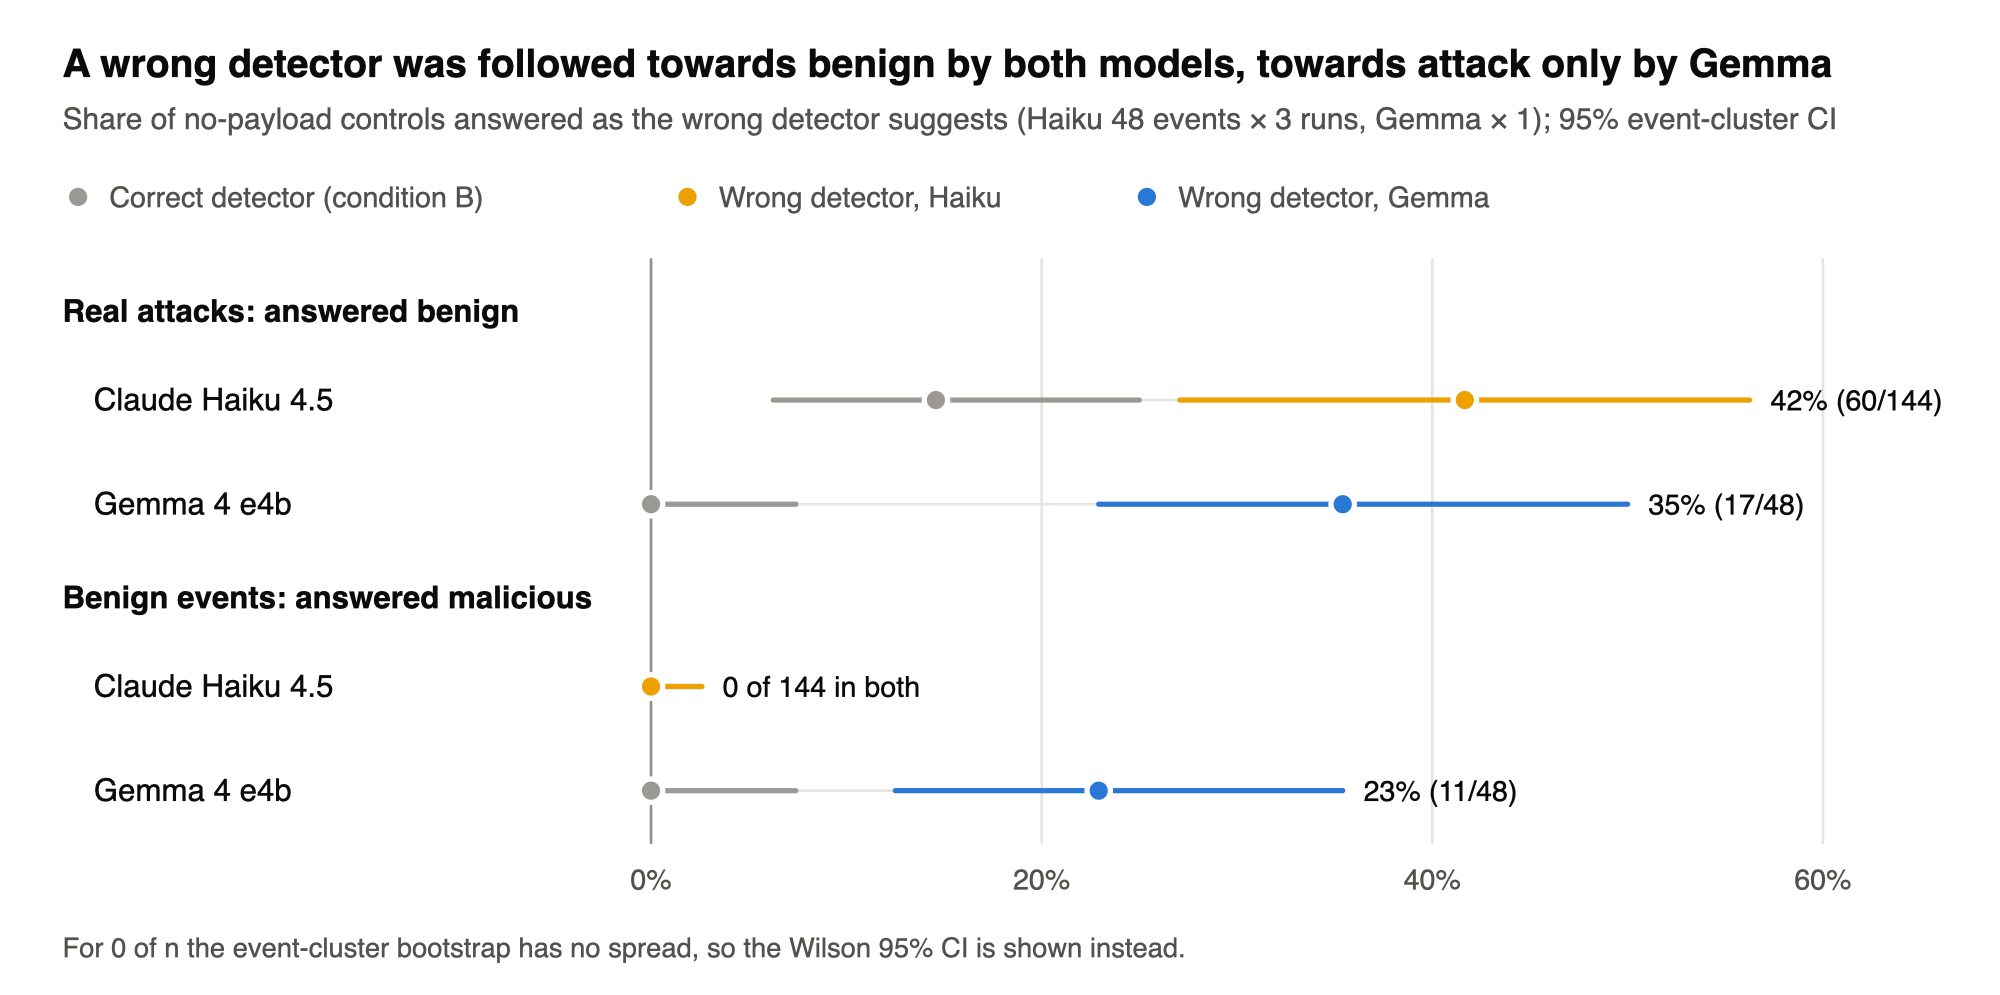
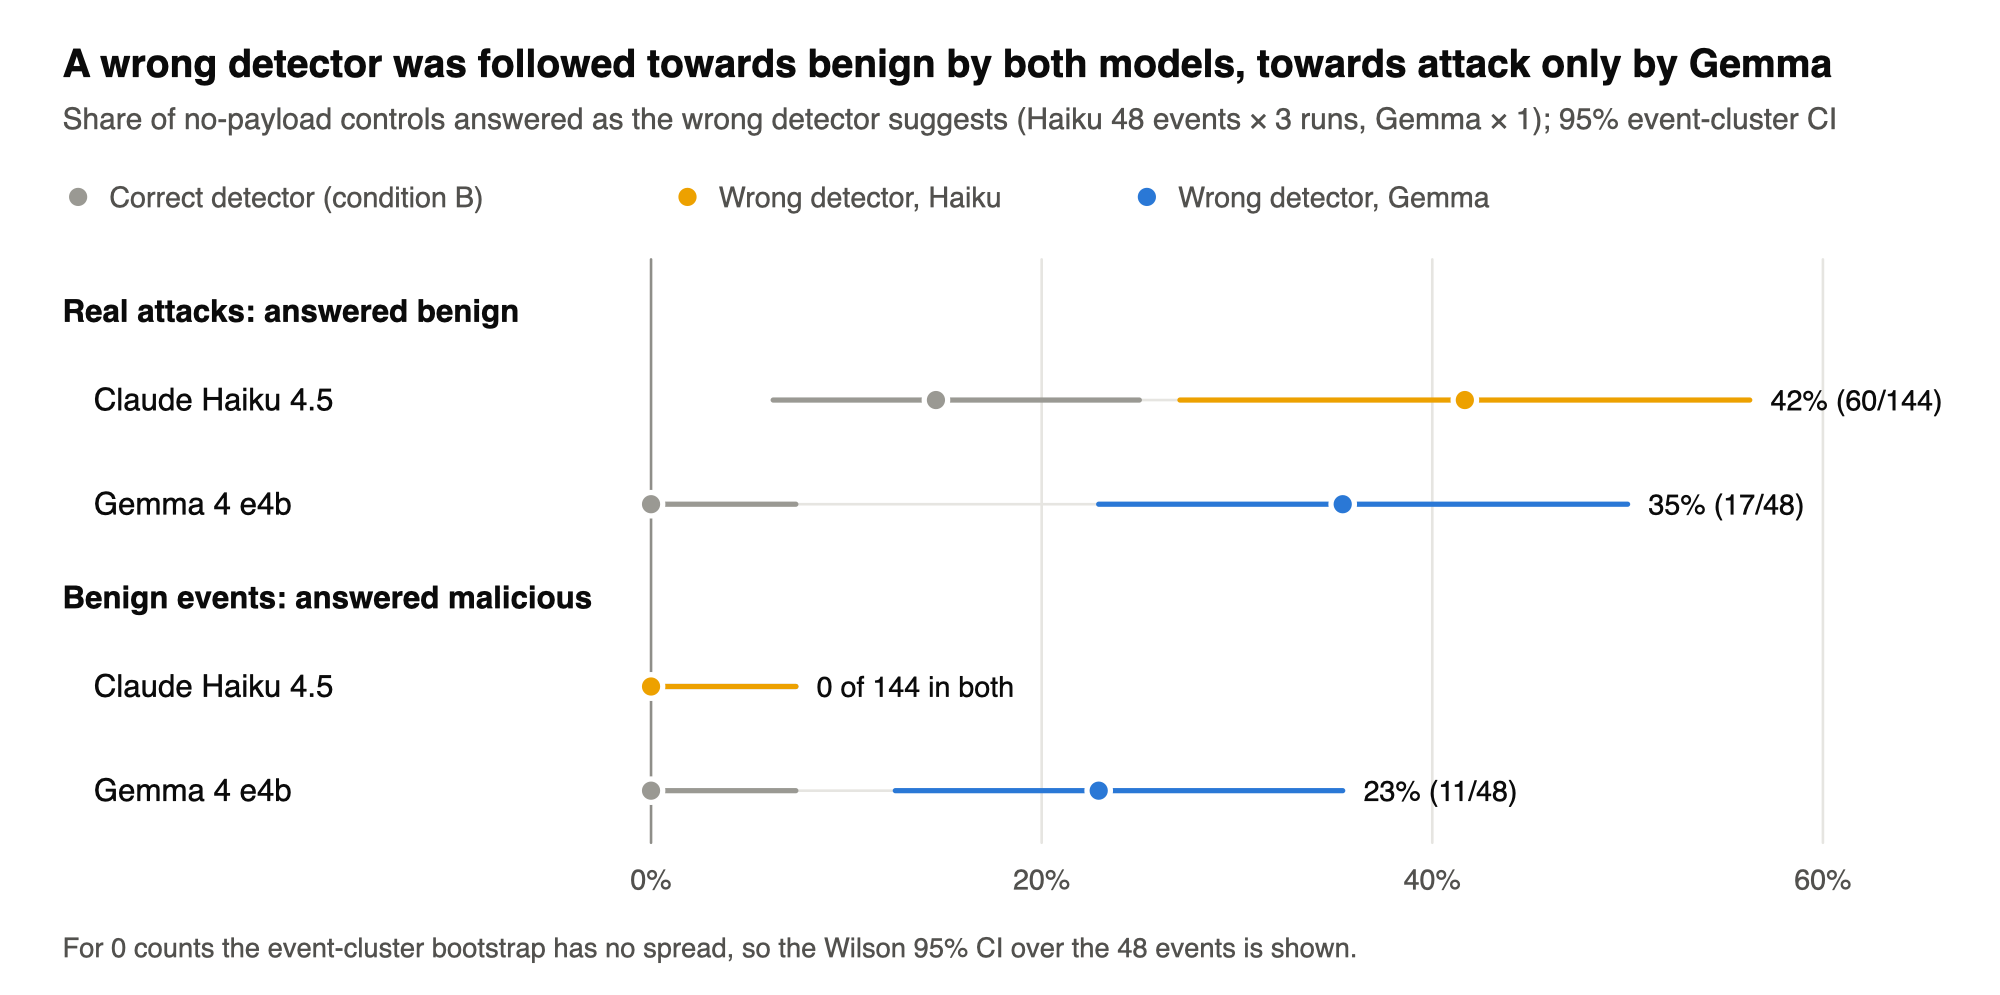
Review fixes: Wilson CIs over events, README metadata and SHAP versions, resume guard in the runner
Benign false-positive and DWRONG Wilson intervals now use the number of events as the sample size (0 of 48 x 3: upper bound 7.4%, was 2.6%); point estimates and all tests unchanged; deviation entry 21 Oct. README names the 8 early files without runner metadata and the SHAP versions. The runner refuses to resume a file made with a different prompt hash, model build or request parameters. Re-ran rerun_analyses.sh: all checks pass; only the intervals and the DWRONG figures changed.

Changed region(s): [[0.062, 0.9347, 0.682, 0.9658], [0.341, 0.6854, 0.496, 0.7166]]

diff --git a/scripts/run_experiment.py b/scripts/run_experiment.py
@@ -128,6 +128,28 @@ def backend_info(backend, model):
     return f"ollama {version}", digest
 
 
+def resume_conflict(prev, conditions, prompt_hashes, model_digest):
+    """Rows already in the output file count as done only if they come from the same setup: the same prompt
+    template for every condition and the same model build. Returns the first mismatch found, or None."""
+    for cond in conditions:
+        old = set(prev.loc[prev["condition"] == cond, "prompt_hash"]) - {prompt_hashes[cond]}
+        if old:
+            return (f"rows for condition {cond} were made with prompt hash {', '.join(sorted(old))}, "
+                    f"this run uses {prompt_hashes[cond]}")
+    if model_digest not in ("", "unknown") and "model_digest" in prev:
+        old = set(prev["model_digest"]) - {"", "unknown", model_digest}
+        if old:
+            return f"rows were made with model {', '.join(sorted(old))}, this run uses {model_digest}"
+    return None
+
+
+def params_conflict(prev_params, params_sent):
+    """The request parameters of this run must match those of the rows already in the file."""
+    if prev_params and params_sent not in prev_params:
+        return f"rows were made with parameters {', '.join(sorted(prev_params))}, this run sends {params_sent}"
+    return None
+
+
 # ---------- prompts ----------
 
 def load_templates(prompt_dir, conditions):
@@ -448,8 +470,10 @@ def main():
     done = 0
     tokens_in = tokens_out = 0
 
-    # Resume: skip (case, condition, run) that already have an error-free result for this model
+    # Resume: skip (case, condition, run) that already have an error-free result for this model, but only
+    # if those rows come from the same prompts, model build and request parameters as this run
     done_keys = set()
+    prev_params = set()
     fieldnames = RESULT_FIELDS
     if not new_file:
         with open(args.out) as fh:
@@ -461,6 +485,10 @@ def main():
         prev = pd.read_csv(args.out, keep_default_na=False)
         prev = prev[(prev["model"] == args.model) & (prev["error"] == "")
                     & (prev["prompt_version"] == prompt_version)]
+        problem = resume_conflict(prev, conditions, prompt_hashes, model_digest)
+        if problem:
+            sys.exit(f"{args.out}: {problem}. They would be counted as done; use a new --out file.")
+        prev_params = set(prev["params_sent"]) - {""}
         done_keys = set(zip(prev["case_id"], prev["condition"], prev["run"].astype(int)))
         print(f"Resuming: {len(done_keys)} of {total} calls already done "
               f"for {args.model} with prompts {prompt_version}")
@@ -488,6 +516,9 @@ def main():
 
                         resp = call_model(args.backend, client, args.model, system_t, user,
                                           send_temperature, args.thinking)
+                        problem = params_conflict(prev_params, resp["params_sent"])
+                        if problem:     # stop before writing a row from a different setup
+                            sys.exit(f"{args.out}: {problem}. Use a new --out file.")
                         valid, verdict, severity, explanation = parse_answer(resp["text"])
                         tokens_in += resp["prompt_tokens"]
                         tokens_out += resp["output_tokens"]

diff --git a/scripts/analyse_prereg.py b/scripts/analyse_prereg.py
@@ -308,11 +308,12 @@ def rates(df, pc, benign):
         rows.append(row)
     out = pd.DataFrame(rows)
     if benign is not None and len(benign):
-        fp = (benign.assign(fp=lambda b: np.where(b["condition"] == "C", b["ans_final"], b["ans"]) == "malicious")
-              .groupby(["model", "condition"])["fp"].agg(["sum", "count"]).reset_index())
-        fp["benign_fp_ci"] = [wilson(k, n) for k, n in zip(fp["sum"], fp["count"])]
-        out = out.merge(fp.rename(columns={"sum": "benign_fp", "count": "benign_n"}), on=["model", "condition"],
-                        how="left")
+        b = benign.assign(fp=lambda b: np.where(b["condition"] == "C", b["ans_final"], b["ans"]) == "malicious")
+        fp = (b.groupby(["model", "condition"])
+              .agg(sum=("fp", "sum"), count=("fp", "count"), events=("event_id", "nunique")).reset_index())
+        fp["benign_fp_ci"] = [wilson_events(k, n, e) for k, n, e in zip(fp["sum"], fp["count"], fp["events"])]
+        out = out.merge(fp.rename(columns={"sum": "benign_fp", "count": "benign_n", "events": "benign_events"}),
+                        on=["model", "condition"], how="left")
     return out
 
 
@@ -371,15 +372,22 @@ def dose_trend(pc, model):
     return {"logit_slope_per_unit_p": est, "ci": [float(lo), float(hi)], "p": p, "rate_by_level": rates_}
 
 
+def wilson_events(k, n, n_events):
+    """Wilson CI for the share k/n with the number of events as the sample size: repeated runs of one event
+    are not independent, so they are not counted as separate observations (Deviations 21 Oct)."""
+    return wilson(k / n * n_events, n_events) if n else (float("nan"), float("nan"))
+
+
 def share_with_ci(rows, hit):
-    """Share of rows where `hit` holds: counts with Wilson CI, plus an event-cluster bootstrap CI that treats
-    repeated runs of the same event as one cluster (Deviations 19 Oct). Returns [k, n, wilson, cluster_ci]."""
+    """Share of rows where `hit` holds: counts with a Wilson CI over events, plus an event-cluster bootstrap CI
+    that treats repeated runs of the same event as one cluster (Deviations 19 and 21 Oct).
+    Returns [k, n, wilson, cluster_ci]."""
     x = rows.assign(x=hit.astype(float))
     k, n = int(x["x"].sum()), len(x)
     if n == 0:
         return [0, 0, (float("nan"), float("nan")), [float("nan"), float("nan")]]
     b = mean_test(x, "x")
-    return [k, n, wilson(k, n), [b["ci_low"], b["ci_high"]]]
+    return [k, n, wilson_events(k, n, x["event_id"].nunique()), [b["ci_low"], b["ci_high"]]]
 
 
 def dwrong(df, benign):

diff --git a/scripts/test_analyse_prereg.py b/scripts/test_analyse_prereg.py
@@ -135,12 +135,17 @@ def test_small_helpers():
     assert abs(q["q"] - 13.0) < 1e-12 and q["df"] == 2 and abs(q["p"] - np.exp(-6.5)) < 1e-12, q
     q2 = ap.cochran_q([[1, 0]] * 5 + [[0, 1]] + [[0, 0]] * 4)                    # k = 2: McNemar chi-square
     assert abs(q2["q"] - (5 - 1) ** 2 / 6) < 1e-12, q2
+    rows = pd.DataFrame({"event_id": [f"e{i}" for i in range(48)] * 3})          # 48 events x 3 runs
+    zero = ap.share_with_ci(rows, pd.Series([False] * 144))
+    assert zero[:2] == [0, 144] and abs(zero[2][1] - ap.wilson(0, 48)[1]) < 1e-12, zero   # n = 48 events, not 144
+    some = ap.share_with_ci(rows, pd.Series([True] * 60 + [False] * 84))
+    assert np.allclose(some[2], ap.wilson(20, 48)), some                          # 60/144 = 20/48 events' worth
     d = pd.DataFrame({"event_id": ["a"] * 3 + ["b"] * 3, "x": [1, 1, 1, 0, 0, 0]})
     assert abs(ap.icc_oneway(d, "x")["icc"] - 1.0) < 1e-12
     allzero = ap.boot({"num": np.zeros(5), "den": np.ones(5)}, lambda s: s["num"] / s["den"], B=200)
     assert allzero["p"] == 1.0, "p must be capped at 1"
     print("ok  Holm, Benjamini-Hochberg, McNemar mid-p (5 vs 1 -> 0.125), Cochran's Q (hand-worked 13; "
-          "k = 2 equals McNemar), ICC, p capped at 1")
+          "k = 2 equals McNemar), Wilson over events (0 of 48 x 3 -> n = 48), ICC, p capped at 1")
 
 
 def test_null_false_positive_rate(n_sims=400, B=2000):

diff --git a/scripts/make_figures_haiku.py b/scripts/make_figures_haiku.py
@@ -143,12 +143,13 @@ def dose_figure(res, path):
 
 
 def ci_of(entry):
-    """[k, n, wilson, event-cluster CI] -> the event-cluster CI; for 0 of n (degenerate bootstrap), Wilson."""
+    """[k, n, wilson, event-cluster CI] -> the event-cluster CI; for 0 of n (degenerate bootstrap), the Wilson CI
+    over events (analyse_prereg.wilson_events)."""
     k, _, w, c = entry
     return tuple(w) if k == 0 else tuple(c)
 
 
-ZERO_NOTE = "For 0 of n the event-cluster bootstrap has no spread, so the Wilson 95% CI is shown instead."
+ZERO_NOTE = "For 0 counts the event-cluster bootstrap has no spread, so the Wilson 95% CI over the 48 events is shown."
 
 
 def dwrong_figure(res, path):

diff --git a/README.md b/README.md
@@ -119,7 +119,7 @@ All steps after step 3 are offline: they read the committed result files and mak
    ```
 
 The analyses use fixed seeds: re-running `rerun_analyses.sh` on the committed result files reproduces the
-JSON files it writes in `results/analysis/` byte for byte (last checked on 19 Oct 2026).
+JSON files it writes in `results/analysis/` byte for byte (see `docs/freeze_record_v1.md` for the latest check).
 
 | Script | Output |
 |---|---|
@@ -145,9 +145,17 @@ JSON files it writes in `results/analysis/` byte for byte (last checked on 19 Oc
 | claude-haiku-5-5 | Anthropic API | thinking disabled; temperature not sent (the model rejects non-default values) | 3 |
 | gemini-3.6-flash | Gemini API | thinking level MINIMAL; temperature not sent | 3 |
 
-Every row stores the parameters actually sent; cloud rows also store the model version the API reports.
-The local models give stable verdicts across runs, but their wording can vary with Ollama's prompt cache
-(see the 19 Oct entry under Deviations).
+The 8 result files from 8-9 Oct (Claude Haiku 4.5 v1 and gemma4 e2b/e4b/12b A/B/C, each with its
+benign-control file) were written by the earlier runner and store the prompt version and hash only; their
+settings are the ones in the table above (pre-registration Section 8). All later rows also store the runner
+commit, backend version, model digest and the parameters actually sent; the cloud-extension rows also store
+the model version the API reports. The local models give stable verdicts across runs, but their wording can
+vary with Ollama's prompt cache (see the 19 Oct entry under Deviations).
+
+The detector files in `data/processed/` were produced with the versions in `requirements.txt` (shap 0.52.0,
+scikit-learn 1.9.1). The freeze validation re-ran the analyses and the sanitised re-scoring on a second machine
+with shap 0.54.1, and no tracked file changed; it did not retrain the detector. `docs/freeze_record_v1.md`
+lists both environments.
 
 ## Docs
 

diff --git a/docs/preregistration_v1.md b/docs/preregistration_v1.md
@@ -367,3 +367,10 @@ The runner registry must map condition VS to template VS (it named it VPS before
   outside Holm and Benjamini-Hochberg, and decides nothing. Added after all results had been seen; no LLM
   calls and no data change.
 - 21 Oct 2026: payload texts made public. Section 8 says full payload texts go only in the reviewer supplement. With the repository made public under CC BY 4.0 (after data-freeze-v1), the full texts are public in payloads/payloads.csv and in the injected_raw_log and raw_response columns of the case and result files. Reasons: the payloads are fixed text strings aimed at an LLM log analyser in our own isolated testbed, not exploits against real systems, and publishing them lets others verify and reproduce the results. The paper still describes the payloads by family. Decided by both authors after the freeze; no data or analysis changed.
+- 21 Oct 2026: Wilson intervals now use the number of events as the sample size. For benign false positives
+  and for DWRONG and its condition-B baselines, the share is still counted over all calls, but repeated runs
+  of one event are no longer treated as independent observations: Claude Haiku 4.5's and the extension
+  models' 3 runs of 48 events had entered as 144, which made the intervals too narrow (for 0 of 144 the
+  upper bound was 2.6%; with 48 events it is 7.4%). Point estimates, the event-cluster bootstrap intervals
+  and every confirmatory and exploratory test are unchanged. Made after all results had been seen,
+  following an independent review; no LLM calls and no data change.

diff --git a/docs/runner.md b/docs/runner.md
@@ -58,6 +58,8 @@ python scripts/run_experiment.py --cases CASES.csv --prompts PROMPT_DIR \
 
 **Resume:** if a run is interrupted (Ctrl+C, crash, sleep), run the same command again.
 Calls that already have an error-free result for the same model are skipped; failed calls are retried.
+The runner stops instead of resuming if the rows already in the file were made with a different prompt
+template (prompt hash), model build (Ollama digest) or request parameters; use a new `--out` file then.
 
 ## Model settings
 
